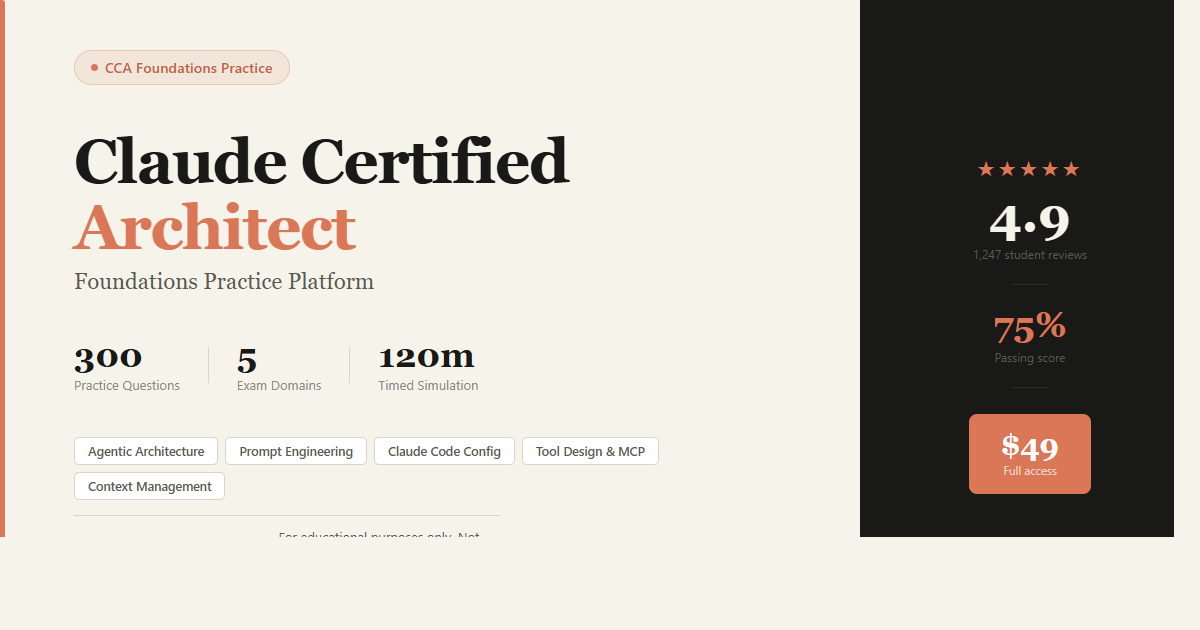
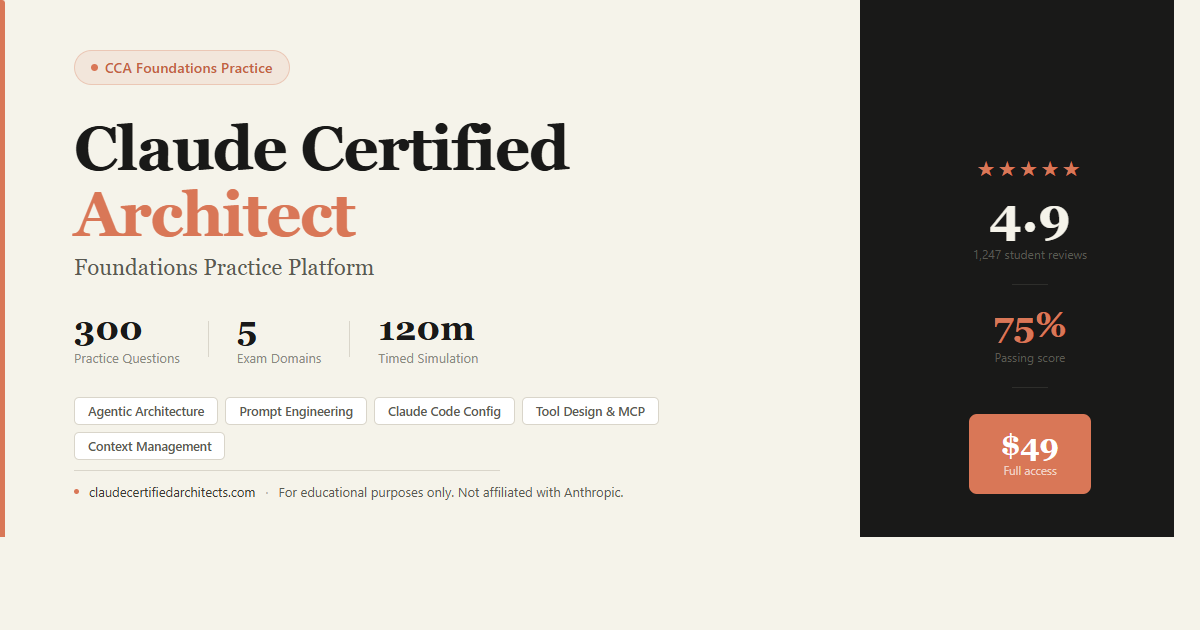
Fix OG card footer fully visible above crop zone
Footer moved to bottom:130px, nowrap on one line.
Separator line + URL + disclaimer all clear of opengraph.xyz crop.

Changed region(s): [[0.0617, 0.5127, 0.555, 0.8143], [0.0617, 0.181, 0.4933, 0.4825], [0.4625, 0.181, 0.4933, 0.2111]]

diff --git a/og-image.html b/og-image.html
@@ -14,7 +14,7 @@ body{
 /* ── Left panel ─────────────────────────────── */
 .left{
   flex:1;
-  padding:50px 68px 130px 74px;
+  padding:50px 68px 170px 74px;
   display:flex;
   flex-direction:column;
   justify-content:space-between;
@@ -89,9 +89,10 @@ body{
 
 .footer-area{
   position:absolute;
-  bottom:68px;
+  bottom:130px;
   left:74px;
   right:360px;
+  white-space:nowrap;
   border-top:1px solid #d9d5ca;
   padding-top:12px;
 }

diff --git a/og-preview/index.html b/og-preview/index.html
@@ -14,7 +14,7 @@ body{
 /* ── Left panel ─────────────────────────────── */
 .left{
   flex:1;
-  padding:50px 68px 130px 74px;
+  padding:50px 68px 170px 74px;
   display:flex;
   flex-direction:column;
   justify-content:space-between;
@@ -89,9 +89,10 @@ body{
 
 .footer-area{
   position:absolute;
-  bottom:68px;
+  bottom:130px;
   left:74px;
   right:360px;
+  white-space:nowrap;
   border-top:1px solid #d9d5ca;
   padding-top:12px;
 }
